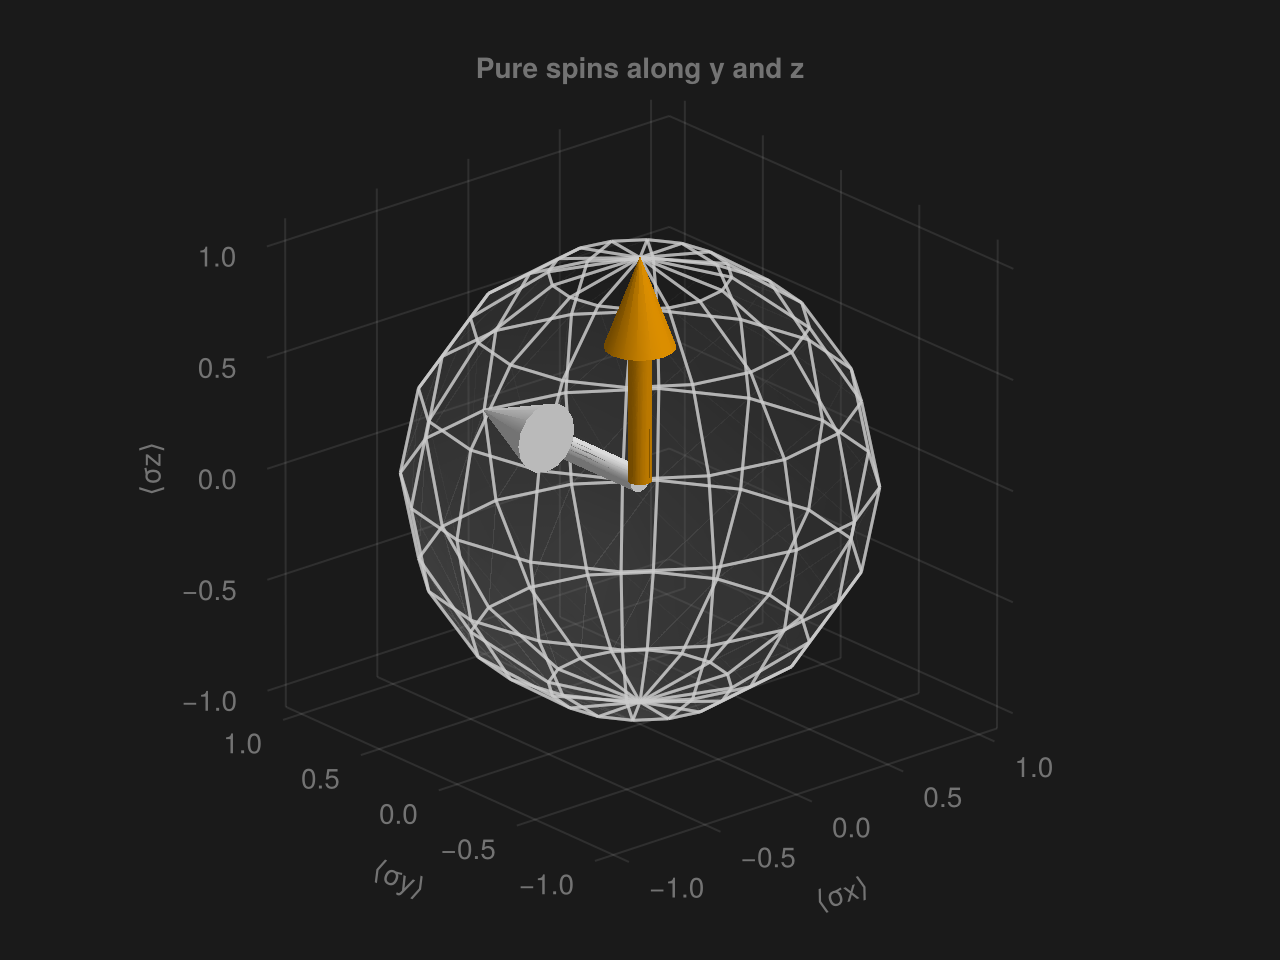
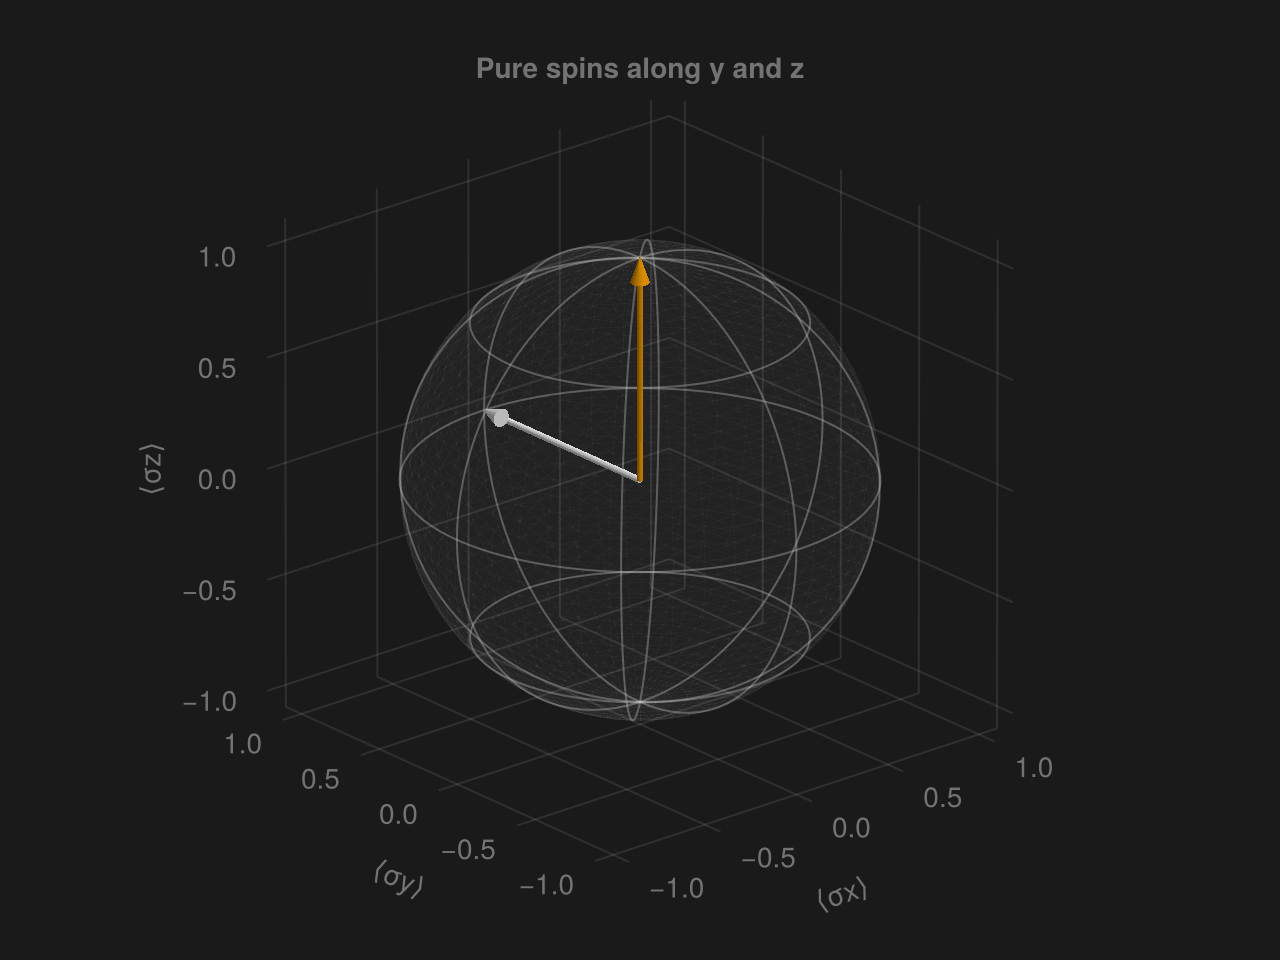
Refresh Bloch gallery with slim arrows and mixed-state comparisons

Changed region(s): [[0.3125, 0.25, 0.6875, 0.75]]

diff --git a/README.md b/README.md
@@ -1,7 +1,7 @@
 # QuantumOpticsBase visualization examples
 
 Rendered from the executable gallery in PR qojulia/QuantumOpticsBase.jl#268,
-code commit 2ae59e6e352ada226be23c9489ac96de2e24ca26, using Julia 1.12.7, CairoMakie 0.15.14, and Makie 0.24.14.
+code commit d4ae4bfd12e495538817229df2ea99764b6bfae9, using Julia 1.12.7, CairoMakie 0.15.14, and Makie 0.24.14.
 `gallery.jl` reproduces all 12 PNGs in the PR's documentation environment.
 
 This separate branch hosts images for PR discussion. Generated PNGs are not part
